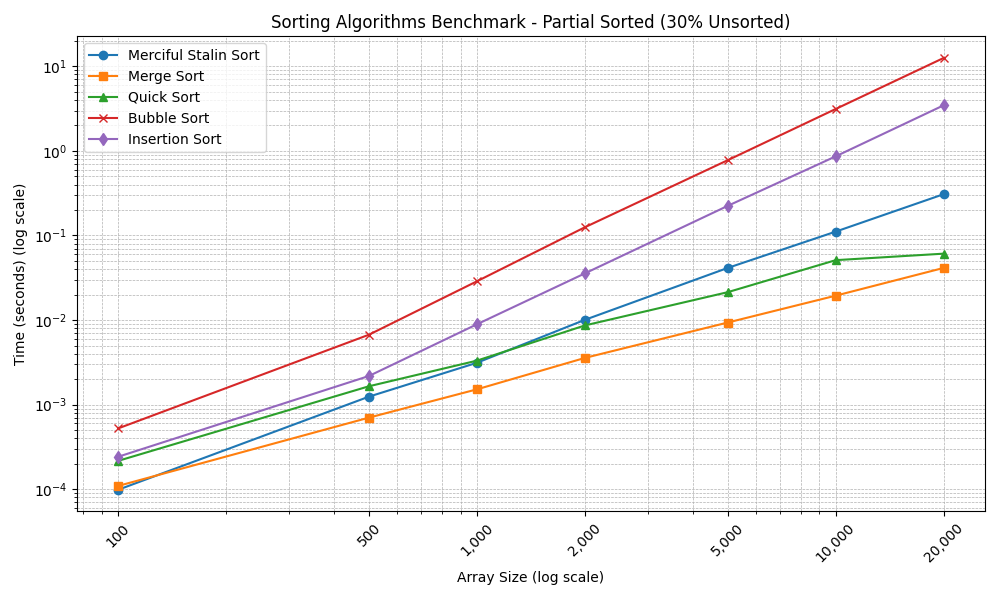
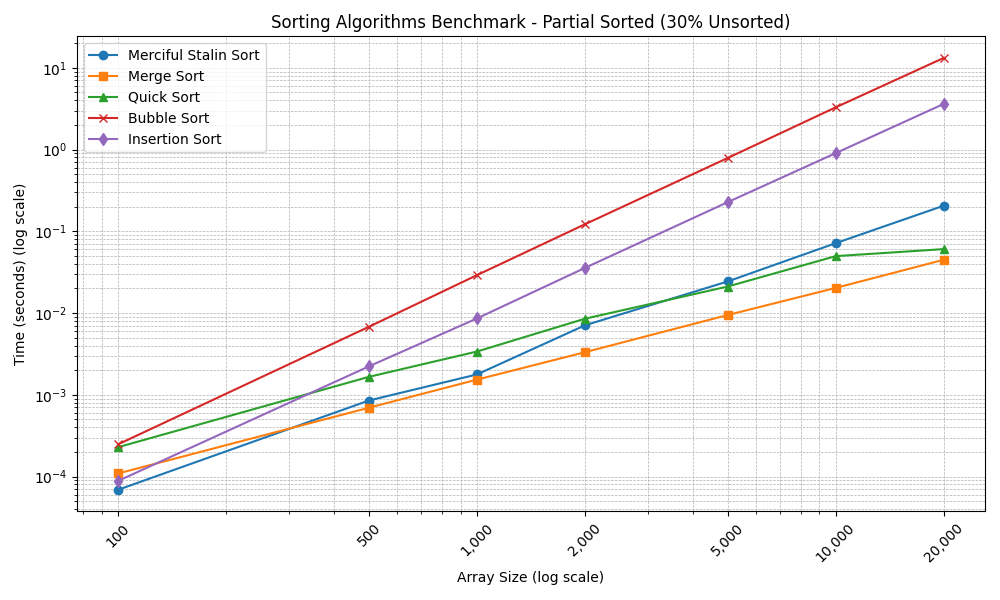
feat: add backward pass and update results

diff --git a/sorts/merciful_stalin_sort.py b/sorts/merciful_stalin_sort.py
@@ -1,31 +1,47 @@
 import array
 from .helpers import merge_arrays
 
-# Merciful Stalin Sort
 def merciful_stalin_sort(arr):
     if len(arr) <= 1:
         return arr[:]
 
     typecode = arr.typecode
-    array1 = array.array(typecode)
-    array2 = array.array(typecode)
+
+    # Forward pass: Collect elements in order
+    forward_sorted = array.array(typecode)
+    forward_remaining = array.array(typecode)
 
     prev = None
-
     for elem in arr:
         if prev is None or elem >= prev:
-            array1.append(elem)
+            forward_sorted.append(elem)
             prev = elem
         else:
-            array2.append(elem)
+            forward_remaining.append(elem)
 
-    # If array2 is empty, the array is already sorted
-    if len(array2) == 0:
-        return arr[:]
+    # Backward pass: Collect elements in reverse order from the remaining elements
+    backward_sorted = array.array(typecode)
+    backward_remaining = array.array(typecode)
 
-    # Recursively sort array2
-    sorted_array2 = merciful_stalin_sort(array2)
+    prev = None
+    for elem in reversed(forward_remaining):
+        if prev is None or elem <= prev:
+            backward_sorted.append(elem)
+            prev = elem
+        else:
+            backward_remaining.append(elem)
 
-    # Merge array1 and sorted_array2
-    sorted_arr = merge_arrays(array1, sorted_array2)
-    return sorted_arr
+    backward_sorted.reverse()
+
+    # Merge sorted from forward and backward passes
+    merged_sorted = merge_arrays(forward_sorted, backward_sorted)
+
+    # If no remaining elements, return the merged sorted array
+    if len(backward_remaining) == 0:
+        return merged_sorted
+
+    # Recursively sort the remaining unsorted elements
+    sorted_remaining = merciful_stalin_sort(backward_remaining)
+
+    # Merge all sorted elements and return
+    return merge_arrays(merged_sorted, sorted_remaining)

diff --git a/main.py b/main.py
@@ -147,6 +147,8 @@ def benchmark_sorts():
             times['Bubble Sort'].append(bubble_time)
             times['Insertion Sort'].append(insertion_time)
 
+            assert sorted_stalin == sorted_merge_sort
+
         print("\n")  # Add space between different array type benchmarks
 
         # Store results for this array type
